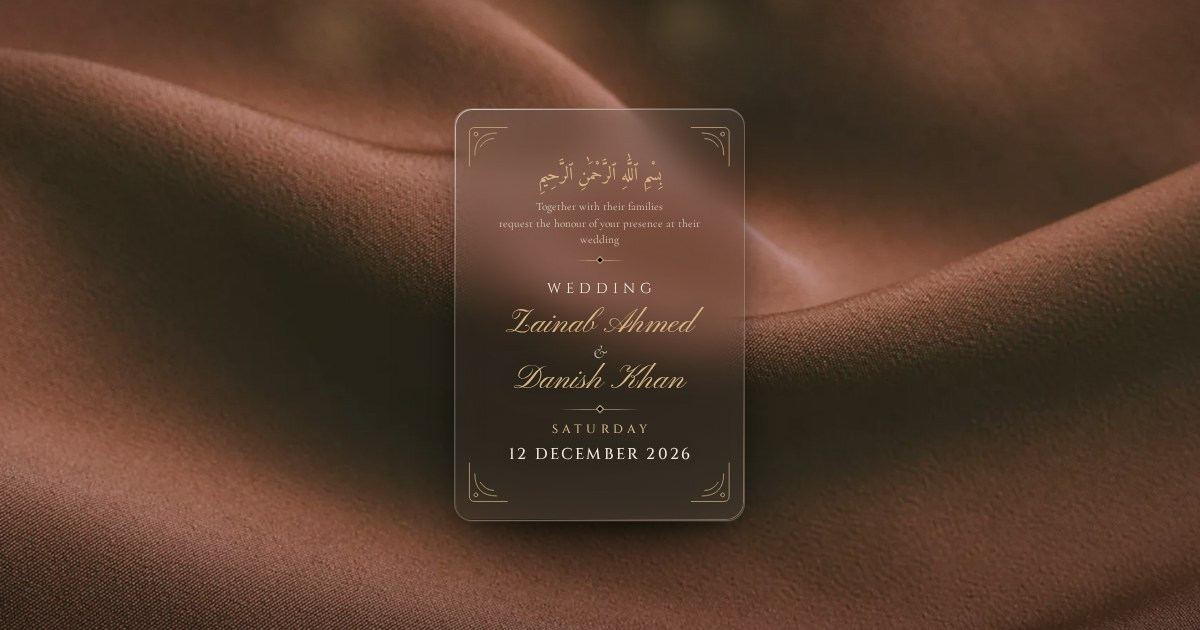
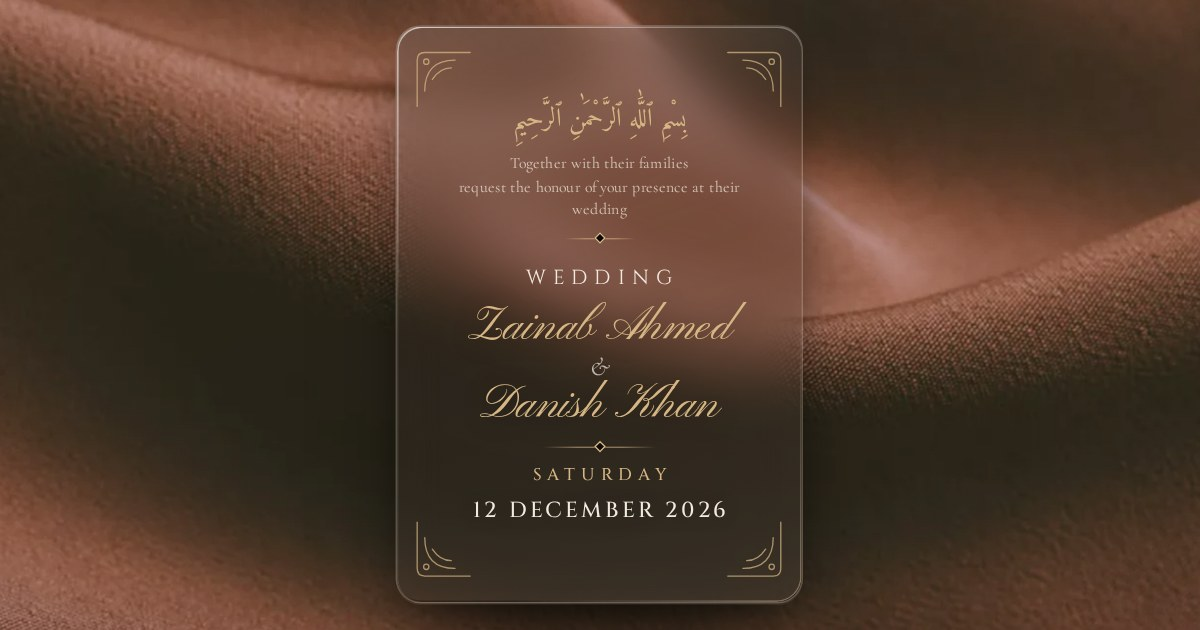
Zoom in on the card in the link preview image
Re-capture og-image.jpg at 1.4x on the hero card, so it fills most of
the preview instead of sitting small in a desktop-width frame. Version
the image URL (?v=2) so WhatsApp and Facebook fetch the new picture.

Claude-Session: https://claude.ai/code/session_01G8eVdVn5UNzNpPU3Z7LpQt

diff --git a/index.html b/index.html
@@ -15,8 +15,8 @@
   <!-- Link preview (WhatsApp, Facebook, iMessage…): the hero card.
        Absolute URLs: WhatsApp and Facebook ignore relative image paths. -->
   <meta property="og:url" content="https://glass-vow.dearday.lk/">
-  <meta property="og:image" content="https://glass-vow.dearday.lk/assets/images/share/og-image.jpg">
-  <meta property="og:image:secure_url" content="https://glass-vow.dearday.lk/assets/images/share/og-image.jpg">
+  <meta property="og:image" content="https://glass-vow.dearday.lk/assets/images/share/og-image.jpg?v=2">
+  <meta property="og:image:secure_url" content="https://glass-vow.dearday.lk/assets/images/share/og-image.jpg?v=2">
   <meta property="og:image:type" content="image/jpeg">
   <meta property="og:image:width" content="1200">
   <meta property="og:image:height" content="630">
@@ -24,7 +24,7 @@
   <meta name="twitter:card" content="summary_large_image">
   <meta name="twitter:title" content="Zainab &amp; Danish · Wedding Invitation">
   <meta name="twitter:description" content="Zainab Ahmed &amp; Danish Khan request the honour of your presence at their wedding on Saturday, 12 December 2026 at Pearl Continental Hotel, Lahore.">
-  <meta name="twitter:image" content="https://glass-vow.dearday.lk/assets/images/share/og-image.jpg">
+  <meta name="twitter:image" content="https://glass-vow.dearday.lk/assets/images/share/og-image.jpg?v=2">
 
   <link rel="preconnect" href="https://fonts.googleapis.com">
   <link rel="preconnect" href="https://fonts.gstatic.com" crossorigin>

diff --git a/README.md b/README.md
@@ -51,7 +51,7 @@ Tap anywhere  →  opening film (muted)  →  dissolve into the live glass card
 
 When the link is shared, `assets/images/share/og-image.jpg` shows as the preview: the hero glass card on the satin, at 1200×630. The page's `og:image` tags point to it by its full address on `https://glass-vow.dearday.lk`, since WhatsApp and Facebook ignore relative image paths. If the invitation moves to another domain, update that address in `index.html` (`og:url`, `og:image`, `twitter:image` and the canonical link).
 
-The preview title and description (the `title` and `description` tags, including the `og:` and `twitter:` ones, in `index.html`) are written out by hand for the same reason, so update them along with the image. The names and date are part of the image, so **re-capture it whenever they change**. Open `http://localhost:8080/?skip` in a 1200×630 window, let the card settle, and save a JPEG screenshot (under ~300 KB) over `og-image.jpg`.
+The preview title and description (the `title` and `description` tags, including the `og:` and `twitter:` ones, in `index.html`) are written out by hand for the same reason, so update them along with the image. The names and date are part of the image, so **re-capture it whenever they change**. Open `http://localhost:8080/?skip` in a 1200×630 window and let the card settle. Save a JPEG (under ~300 KB) of the centre of the window, zoomed about 1.4× so the card fills most of the height, over `og-image.jpg` at 1200×630. Then bump the `?v=` number on the image URLs in `index.html`, so WhatsApp and Facebook fetch the new picture instead of their saved one.
 
 WhatsApp and Facebook cache previews. After changing the image, refresh it with the [Facebook Sharing Debugger](https://developers.facebook.com/tools/debug/) ("Scrape Again"). WhatsApp picks up the change for chats that have not previewed the link before.
 
